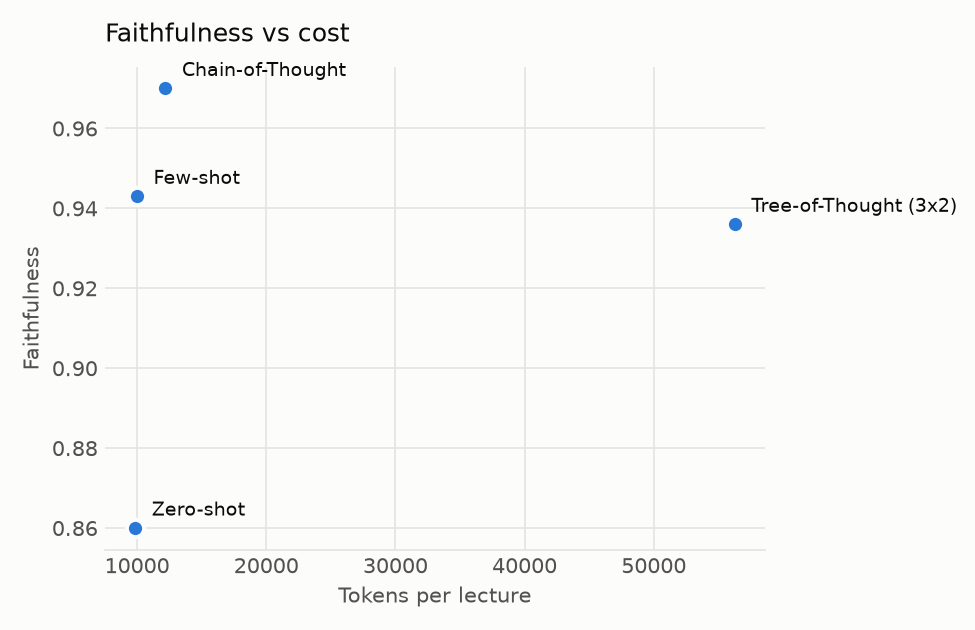
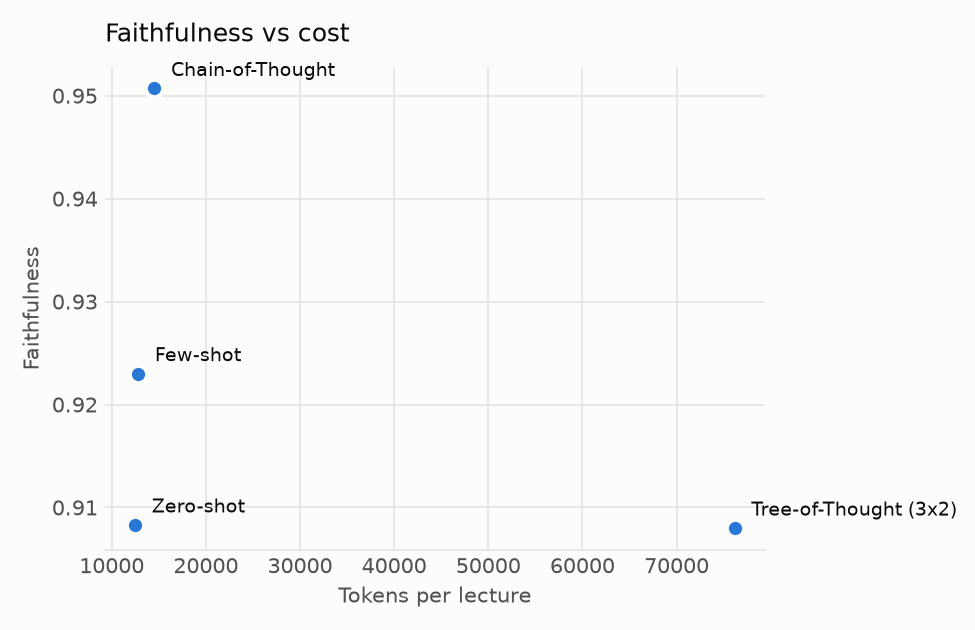
Experiment 2 complete on three lectures: CoT most faithful, ToT costs 6x without gain

diff --git a/eval/results/RESULTS.md b/eval/results/RESULTS.md
@@ -1,4 +1,4 @@
-# LectureLens: pilot results (updated 7 Nov 2026)
+# LectureLens: results (updated 8 Nov 2026)
 
 All numbers below come from real runs of the pipeline on six real lectures. Raw CSVs are in this folder,
 plots in `plots/`, generated notes and judge verdicts in `outputs/`. Every experiment lists the models it
@@ -61,28 +61,40 @@ ran out, so its numbers are not used as experimental results.
 
 ## Experiment 2: prompting strategies (the main result)
 
-Generator `gpt-oss-120b`, judge `qwen3.8-27b`, neutral learner profile. Complete for **L3** (all four
-strategies); L1 has three of four strategies. The judge excludes claims it could not assess ("unjudged").
+Generator `gpt-oss-120b`, judge `qwen3.8-27b`, neutral learner profile, the three lectures with reference
+notes (L1–L3). Claims the judge could not assess are excluded and counted ("unjudged": 1 of 863 claims).
 
-| Strategy | ROUGE-L | BERTScore F1 | Faithfulness | Claims checked | Tokens |
-|---|---|---|---|---|---|
-| Zero-shot | 0.238 | 0.797 | 0.860 | 50 | 9,846 |
-| Few-shot | **0.253** | **0.805** | 0.943 | 88 | 9,983 |
-| Chain-of-Thought | 0.215 | 0.804 | **0.970** | 66 | 12,185 |
-| Tree-of-Thought (3×2) | 0.226 | 0.797 | 0.936 | 47 | 56,268 |
+**Mean over L1–L3**
 
-L1 (partial, ToT still running): faithfulness zero-shot 0.943, few-shot 0.955, CoT 0.953 (all claims judged).
+| Strategy | ROUGE-L | BERTScore F1 | Faithfulness | Tokens per lecture |
+|---|---|---|---|---|
+| Zero-shot | 0.200 | **0.782** | 0.908 | 12,482 |
+| Few-shot | **0.207** | 0.780 | 0.923 | 12,815 |
+| Chain-of-Thought | 0.190 | 0.779 | **0.951** | 14,533 |
+| Tree-of-Thought (3×2) | 0.195 | 0.776 | 0.908 | 76,182 |
+
+**Faithfulness per lecture**
+
+| Strategy | L1 | L2 | L3 |
+|---|---|---|---|
+| Zero-shot | 0.943 | 0.922 | 0.860 |
+| Few-shot | **0.955** | 0.871 | 0.943 |
+| Chain-of-Thought | 0.953 | **0.929** | **0.970** |
+| Tree-of-Thought (3×2) | 0.913 | 0.875 | 0.936 |
 
 ![Strategy quality](plots/exp2_strategy_quality.png)
 ![Faithfulness vs cost](plots/exp2_faithfulness_vs_cost.png)
 
-- Every structured strategy beat zero-shot on faithfulness on L3 (0.94–0.97 vs 0.86).
-- **Tree-of-Thought cost 5.7× the tokens of zero-shot without beating CoT or few-shot** on this lecture.
-  Its search improved faithfulness over zero-shot, but a single CoT pass got there more cheaply.
+- **Chain-of-Thought gives the most faithful notes**: best mean (0.951), best on two lectures and within
+  0.002 of the best on the third, and above zero-shot on all three, for only ~16% more tokens.
+- **Tree-of-Thought does not pay off here**: about 6× the tokens of zero-shot for the same mean faithfulness
+  (0.908). Its candidates are generated at temperature 0.8 for diversity, and the judge-and-refine loop does not
+  fully remove what that adds; a single careful CoT pass is both cheaper and more faithful.
+- Few-shot is best on word overlap (ROUGE-L), but its faithfulness varies most between lectures.
 - ROUGE-L and BERTScore barely separate the strategies: the reference is the author's prose lesson, not
-  bullet notes, so word overlap is low for every strategy.
-- This is one complete lecture. Strategy differences of a few points need L1 and L2 to finish before
-  they can be called results.
+  bullet notes, so overlap is low for every strategy. Faithfulness is the more informative metric here.
+- Three lectures is a small sample: CoT beating zero-shot on 3 of 3 lectures is a consistent direction, not
+  a statistically significant result (sign test p = 0.125). Human ratings would strengthen it.
 
 ## Experiment 3: sampling (temperature × top-p)
 
@@ -189,8 +201,8 @@ when the cross-judge does not). Faithfulness scores in this report are therefore
 ## To complete the full plan
 
 `python eval/run_pending.py` runs everything that is left, in order, waiting out daily quotas; cached work
-is skipped. Remaining: Experiment 2 (ToT on L1, all strategies on L2), the LLM half of Experiment 4, the
-demo study kits (`scripts/build_demo_kits.py`) and Experiment 3 repeats (3 samples per setting).
+is skipped. Remaining: the LLM half of Experiment 4, the demo study kits (`scripts/build_demo_kits.py`) and
+Experiment 3 repeats (3 samples per setting).
 
 Still manual by design: human ratings (Google Form, `eval/human_eval.py`) and hand-labelling 20 judge
 verdicts (`eval/judge_agreement.py export` / `score`).

diff --git a/eval/results/tables.md b/eval/results/tables.md
@@ -26,15 +26,20 @@
 | L1 | zero_shot | 0.4092 | 0.1632 | 0.1747 | 0.7561 | 0.943 | 88 | 0 |  | 12714 | 6 | 0.0 | groq/openai/gpt-oss-120b | groq/qwen/qwen3.8-27b |
 | L1 | few_shot | 0.3606 | 0.1508 | 0.1749 | 0.7556 | 0.955 | 66 | 0 |  | 12654 | 6 | 0.0 | groq/openai/gpt-oss-120b | groq/qwen/qwen3.8-27b |
 | L1 | cot | 0.3967 | 0.1552 | 0.1687 | 0.7513 | 0.953 | 64 | 0 |  | 13839 | 6 | 0.0 | groq/openai/gpt-oss-120b | groq/qwen/qwen3.8-27b |
+| L1 | tot | 0.4013 | 0.1612 | 0.1704 | 0.7558 | 0.913 | 69 | 0 |  | 77777 | 36 | 0.0 | groq/openai/gpt-oss-120b | groq/qwen/qwen3.8-27b |
+| L2 | zero_shot | 0.5502 | 0.2116 | 0.1875 | 0.7913 | 0.922 | 90 | 1 |  | 14885 | 8 | 0.0 | groq/openai/gpt-oss-120b | groq/qwen/qwen3.8-27b |
+| L2 | few_shot | 0.5381 | 0.21 | 0.1945 | 0.7799 | 0.871 | 70 | 0 |  | 15809 | 8 | 0.0 | groq/openai/gpt-oss-120b | groq/qwen/qwen3.8-27b |
+| L2 | cot | 0.5643 | 0.2048 | 0.1855 | 0.7818 | 0.929 | 84 | 0 |  | 17574 | 8 | 0.0 | groq/openai/gpt-oss-120b | groq/qwen/qwen3.8-27b |
+| L2 | tot | 0.5534 | 0.1961 | 0.187 | 0.7747 | 0.875 | 80 | 0 |  | 94501 | 50 | 0.0 | groq/openai/gpt-oss-120b | groq/qwen/qwen3.8-27b |
 
 ### exp2_summary
 
 | strategy | strategy_label | lectures | rouge1 | rouge2 | rougeL | bertscore_f1 | faithfulness | human_rating | tokens | generator | judge |
 |---|---|---|---|---|---|---|---|---|---|---|---|
-| zero_shot | Zero-shot | 1 | 0.5336 | 0.2333 | 0.2375 | 0.7973 | 0.86 |  | 9846 | groq/openai/gpt-oss-120b | groq/qwen/qwen3.8-27b |
-| few_shot | Few-shot | 1 | 0.4734 | 0.2157 | 0.2527 | 0.8049 | 0.943 |  | 9983 | groq/openai/gpt-oss-120b | groq/qwen/qwen3.8-27b |
-| cot | Chain-of-Thought | 1 | 0.5249 | 0.2234 | 0.2152 | 0.8037 | 0.97 |  | 12185 | groq/openai/gpt-oss-120b | groq/qwen/qwen3.8-27b |
-| tot | Tree-of-Thought (3x2) | 1 | 0.5105 | 0.2177 | 0.2264 | 0.7974 | 0.936 |  | 56268 | groq/openai/gpt-oss-120b | groq/qwen/qwen3.8-27b |
+| zero_shot | Zero-shot | 3 | 0.4977 | 0.2027 | 0.1999 | 0.7816 | 0.9083 |  | 12481.6667 | groq/openai/gpt-oss-120b | groq/qwen/qwen3.8-27b |
+| few_shot | Few-shot | 3 | 0.4574 | 0.1922 | 0.2074 | 0.7801 | 0.923 |  | 12815.3333 | groq/openai/gpt-oss-120b | groq/qwen/qwen3.8-27b |
+| cot | Chain-of-Thought | 3 | 0.4953 | 0.1945 | 0.1898 | 0.7789 | 0.9507 |  | 14532.6667 | groq/openai/gpt-oss-120b | groq/qwen/qwen3.8-27b |
+| tot | Tree-of-Thought (3x2) | 3 | 0.4884 | 0.1917 | 0.1946 | 0.776 | 0.908 |  | 76182 | groq/openai/gpt-oss-120b | groq/qwen/qwen3.8-27b |
 
 ### exp3_sampling
 
